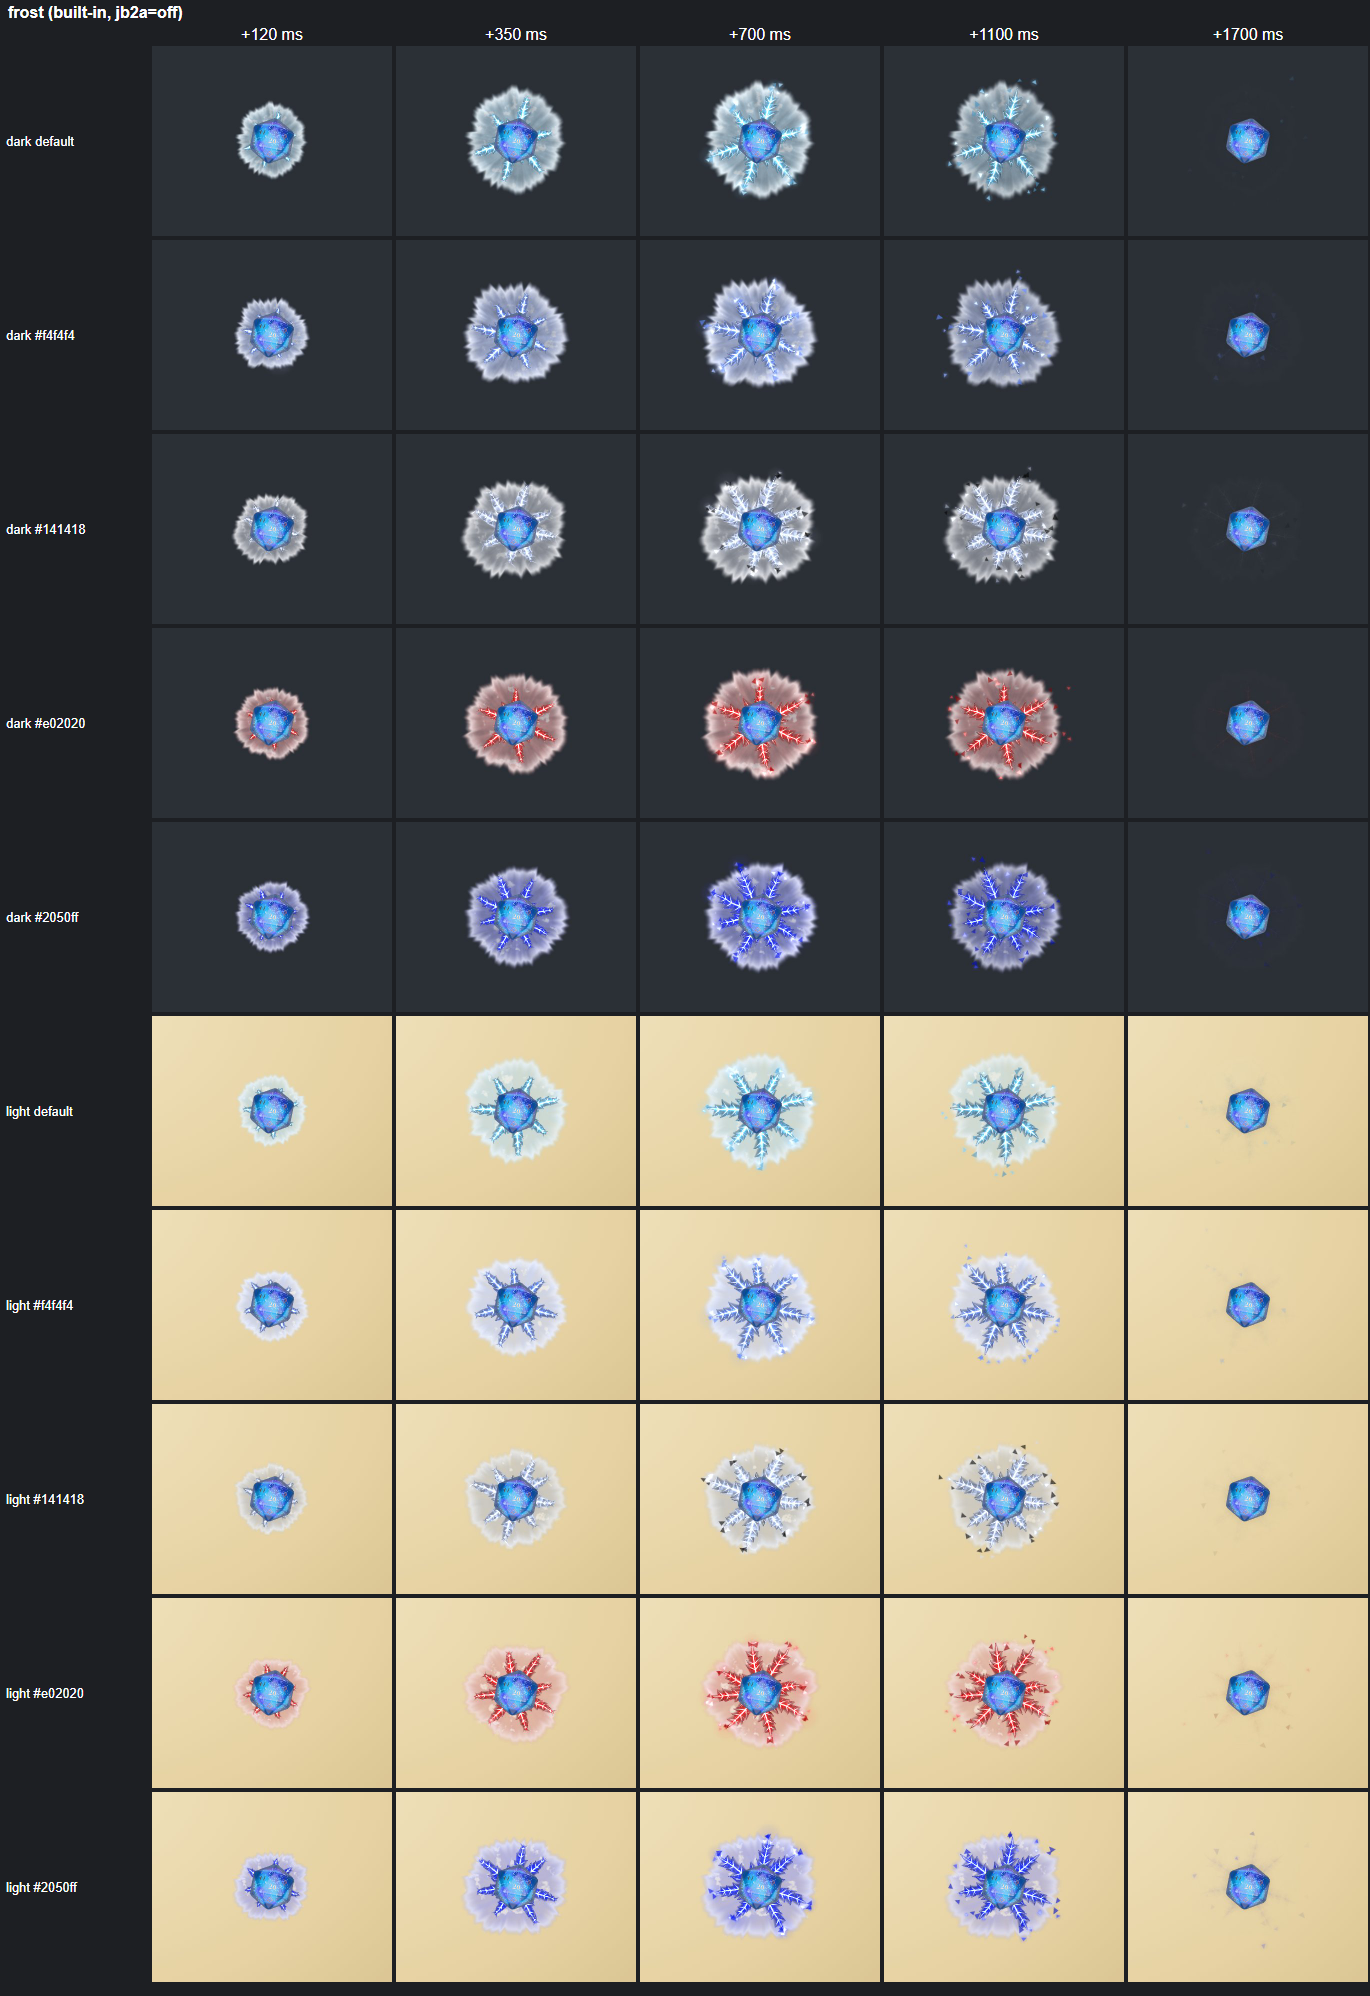
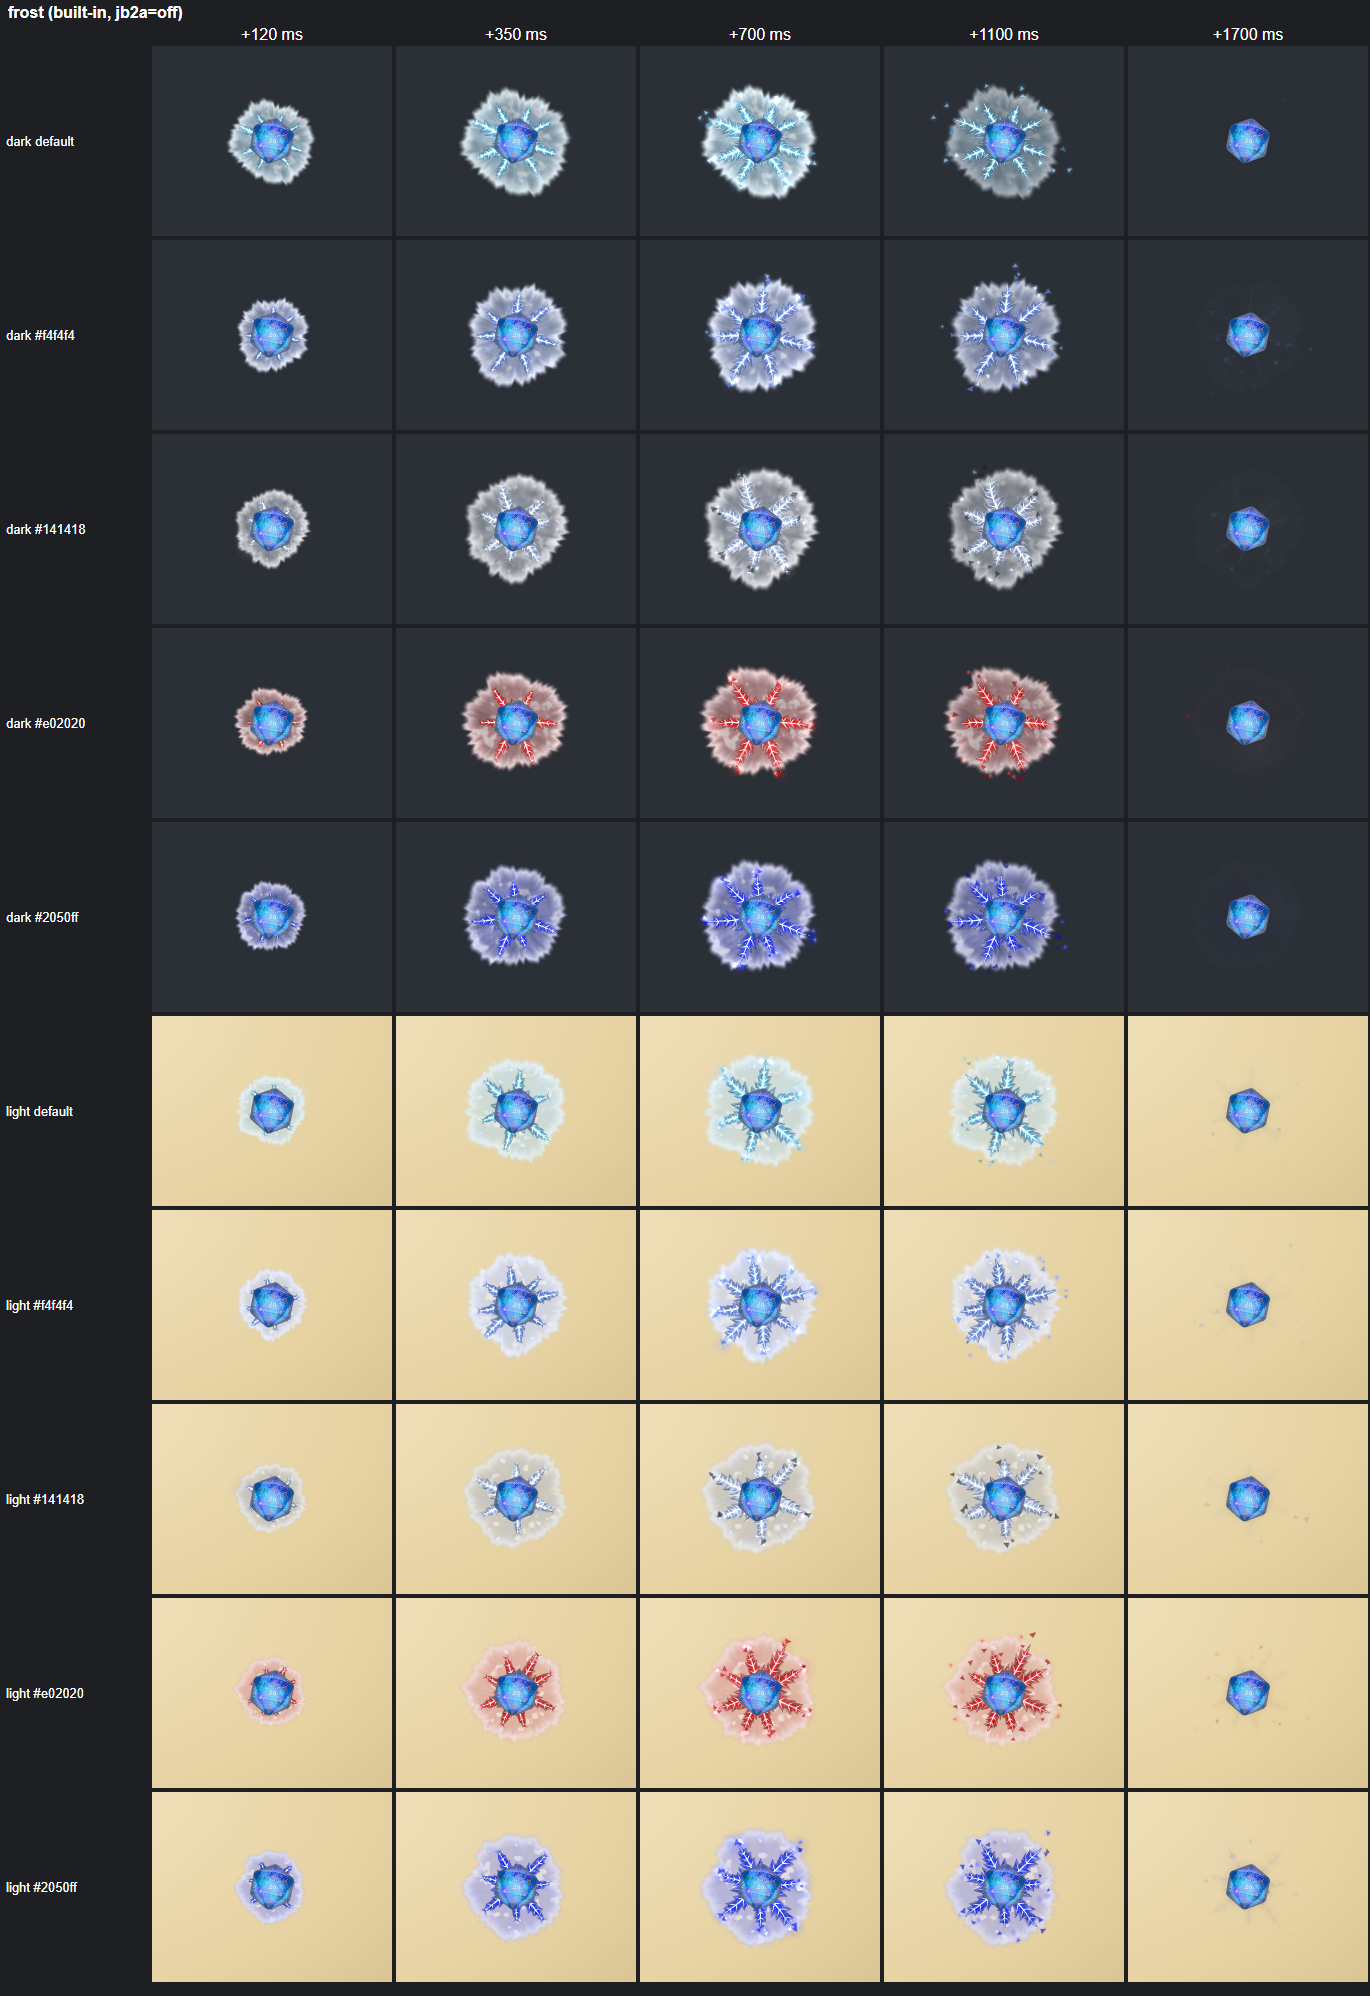
fix(fx): cut frost patch and ribbon cost, real colour test
Patch: corners and pixels past the outline are discarded before most
noise; 2-octave fbm, sin-free hash (13 -> 0/3/7 noise calls per pixel).
Ribbons rebuild only on visible growth steps, never once grown. The
intensity-2 test now compares against intensity 1 and fails without the
clamp. Near-black shards tint toward the rim.

diff --git a/src/effects/library/catalogue.js b/src/effects/library/catalogue.js
@@ -480,13 +480,20 @@ function alongLine(line, f) {
  * The frost patch on the table: a pale, matte disc of value-noise rime with a ragged outline and
  * a few brighter flecks, drawn "over" (premultiplied normal blend) rather than added, so it reads
  * as a white frost on a light map as well as on a dark table. uAlpha is its opacity.
+ * Cost: the quad's corners (r > 1) are discarded at once; a pixel past the ragged outline after
+ * the 3 outline noise calls; one inside takes 4 more (7 value-noise calls, sin-free hashes).
  */
 const FROST_PATCH_FRAGMENT = /* glsl */ `
 uniform vec3 uColor;
 uniform float uAlpha;
 uniform float uSeed;
 varying vec2 vUv;
-float hash( vec2 p ) { return fract( sin( dot( p, vec2( 127.1, 311.7 ) ) ) * 43758.5453 ); }
+// A sin-free hash (Hoskins): cheap, and stable at large inputs on mediump GPUs.
+float hash( vec2 p ) {
+	vec3 p3 = fract( vec3( p.xyx ) * 0.1031 );
+	p3 += dot( p3, p3.yzx + 33.33 );
+	return fract( ( p3.x + p3.y ) * p3.z );
+}
 float noise( vec2 p ) {
 	vec2 i = floor( p );
 	vec2 f = fract( p );
@@ -494,28 +501,23 @@ float noise( vec2 p ) {
 	return mix( mix( hash( i ), hash( i + vec2( 1.0, 0.0 ) ), f.x ),
 		mix( hash( i + vec2( 0.0, 1.0 ) ), hash( i + vec2( 1.0, 1.0 ) ), f.x ), f.y );
 }
-// Four octaves, each turned ~37 degrees, so no lattice shows.
-float fbm( vec2 p ) {
-	const mat2 turn = mat2( 0.8, 0.6, -0.6, 0.8 );
-	float s = 0.0;
-	float w = 0.5;
-	for ( int i = 0; i < 4; i++ ) {
-		s += w * noise( p );
-		p = turn * p * 2.03 + 17.0;
-		w *= 0.5;
-	}
-	return s / 0.9375;
+// Two octaves, the second turned ~37 degrees so no lattice shows.
+float fbm2( vec2 p ) {
+	return ( 2.0 * noise( p ) + noise( mat2( 0.8, 0.6, -0.6, 0.8 ) * p * 2.03 + 17.0 ) ) / 3.0;
 }
 void main() {
+	if ( uAlpha <= 0.0 ) discard;
 	vec2 p = vUv * 2.0 - 1.0;
 	float r = length( p );
+	if ( r >= 1.0 ) discard; // the quad's corners: the outline never reaches past r = 1
 	vec2 dir = p / max( r, 0.0001 );
-	// A ragged outline: fbm around the circle plus a finer fringe.
-	float outline = 0.66 + 0.24 * fbm( dir * 2.2 + uSeed ) + 0.1 * noise( dir * 14.0 + uSeed );
+	// A ragged outline: two lobed octaves around the circle plus a finer fringe.
+	float outline = 0.66 + 0.24 * fbm2( dir * 2.2 + uSeed ) + 0.1 * noise( dir * 14.0 + uSeed );
+	if ( r >= outline ) discard;
 	float inside = 1.0 - smoothstep( outline - 0.12, outline, r );
 	// Frost feathers: fibres that run outward (noise mostly of the angle), over a fine rime grain.
-	float fibre = fbm( dir * 7.0 + vec2( r * 1.6, -r * 1.1 ) + uSeed );
-	float grain = fbm( p * 9.0 - uSeed );
+	float fibre = fbm2( dir * 7.0 + vec2( r * 1.6, -r * 1.1 ) + uSeed );
+	float grain = fbm2( p * 9.0 - uSeed );
 	float n = 0.55 * fibre + 0.45 * grain;
 	float rim = smoothstep( outline - 0.3, outline - 0.06, r ) * inside; // the denser growing edge
 	float fleck = smoothstep( 0.62, 0.78, grain );
@@ -592,6 +594,7 @@ function frostCrystal(cx, cz, reach) {
 const rayTaper = (t) => 1 - 0.9 * t ** 1.4;
 const spikeTaper = (t) => 1 - 0.92 * t;
 const easeOutCubic = (t) => 1 - (1 - t) ** 3;
+const GROW_STEP = 0.008; // the smallest growth step worth a ribbon rebuild (under a pixel per step)
 
 export const frost = Object.freeze({
   id: 'frost',
@@ -639,6 +642,8 @@ export const frost = Object.freeze({
     // The edge tint, lifted halfway to the die colour (an edge alone is a dull grey) then paled.
     const discBase = pal.rim ?? (nearWhite ? pal.edge : pal.edge.clone().lerp(pal.mid, 0.6));
     const discColor = discBase.clone().lerp(white, 0.5);
+    // (A plane: its corners, past r = 1, are discarded before any noise. THREE.CircleGeometry would
+    // split into a shared chunk and grow the world-start download.)
     const disc = new THREE.Mesh(new THREE.PlaneGeometry(1, 1), frostPatchMaterial(discColor));
     disc.rotation.x = -Math.PI / 2;
     disc.position.set(ctx.position.x, FLOOR_Y, ctx.position.z);
@@ -658,9 +663,12 @@ export const frost = Object.freeze({
     };
 
     const cold = glowColor.clone().lerp(white, 0.55);
-    const shardBody = pal.rim ? pal.mid : nearWhite ? pal.edge : pal.mid;
+    // A near-black die's crystals are dark ice tinted toward its rim, not black triangles.
+    const shardBody = pal.rim ? pal.mid.clone().lerp(pal.rim, 0.45) : nearWhite ? pal.edge : pal.mid;
+    const shardEnd = pal.rim ? pal.mid.clone().lerp(pal.rim, 0.25) : pal.edge;
     const mistColor = glowColor.clone().lerp(white, pal.rim ? 0.45 : 0.7);
     let popped = false;
+    let drawn = -1; // the growth the ribbons were last built at
     const pop = (e, now) => {
       popped = true;
       const pool = ctx.particles;
@@ -679,7 +687,7 @@ export const frost = Object.freeze({
           gravity: -4,
           life,
           color: shardBody,
-          colorEnd: pal.edge,
+          colorEnd: shardEnd,
           size: 0.3 * k,
           spin: 2,
           kind: KIND.SHARD,
@@ -744,14 +752,19 @@ export const frost = Object.freeze({
       (e, now) => {
         mist(e, now);
         const g = growAt(e);
-        ray.mesh.userData.grow = g;
-        const rayLines = rays.map((pts) => prefixOf(pts, g));
-        const spikeLines = spikes.map((s) => prefixOf(s.pts, (g - s.at) / (1 - s.at)));
-        ray.setPolylines(rayLines);
-        spike.setPolylines(spikeLines);
-        const all = rayLines.concat(spikeLines);
-        halo.setPolylines(all);
-        shadow.setPolylines(all);
+        // Rebuild (and re-upload) the four ribbons only when the growth has visibly moved: at most
+        // ~1/GROW_STEP times per play whatever the frame rate, and never once the crystal is grown.
+        if (g - drawn >= GROW_STEP || (g === 1 && drawn < 1)) {
+          drawn = g;
+          ray.mesh.userData.grow = g;
+          const rayLines = rays.map((pts) => prefixOf(pts, g));
+          const spikeLines = spikes.map((s) => prefixOf(s.pts, (g - s.at) / (1 - s.at)));
+          ray.setPolylines(rayLines);
+          spike.setPolylines(spikeLines);
+          const all = rayLines.concat(spikeLines);
+          halo.setPolylines(all);
+          shadow.setPolylines(all);
+        }
         if (!popped && g >= 0.9) pop(e, now);
         const a = bright * levelAt(e);
         ray.alpha = Math.min(ALPHA_CAP, 1.15 * a);

diff --git a/tests/unit/catalogue.test.js b/tests/unit/catalogue.test.js
@@ -487,20 +487,41 @@ describe('frost', () => {
     pool.dispose();
   });
 
-  test('frost brightness is capped: at intensity 2 no additive layer alpha exceeds 1.5', () => {
-    for (const color of ['#a8e4ff', '#f4f4f4', '#141418', '#e02020']) {
-      const { scene, pool, h } = play({ intensity: 2, color: new THREE.Color(color) });
-      const layers = scene.children.filter((c) => c.material?.uniforms?.uAlpha);
-      expect(layers.length, color).toBeGreaterThan(1);
-      let max = 0;
-      for (let t = 0; t < 1000; t += 10) {
-        h.update(t);
-        for (const l of layers) max = Math.max(max, l.material.uniforms.uAlpha.value);
-      }
-      expect(max, color).toBeLessThanOrEqual(1.5);
-      expect(max, color).toBeGreaterThan(0.3);
-      h.stop();
-      pool.dispose();
+  /** Per drawn layer (scene order): peak uAlpha, colour, width; plus the additive particle colours. */
+  const layersAt = (intensity, color) => {
+    const { scene, pool, emit, h } = play({ intensity, color: new THREE.Color(color) });
+    const layers = scene.children.filter((c) => c.material?.uniforms?.uAlpha);
+    const peak = layers.map(() => 0);
+    for (let t = 0; t < 1000; t += 10) {
+      h.update(t);
+      layers.forEach((l, i) => (peak[i] = Math.max(peak[i], l.material.uniforms.uAlpha.value)));
+    }
+    const out = {
+      peak,
+      hsl: layers.map((l) => l.material.uniforms.uColor.value.getHSL({})),
+      width: layers.map((l) => l.material.uniforms.uWidthPx?.value ?? 0),
+      glow: emit.mock.calls.map(([s]) => s).filter((s) => s.blend !== 'normal').map((s) => new THREE.Color(s.color).getHex()),
+    };
+    h.stop();
+    pool.dispose();
+    return out;
+  };
+
+  test('frost at intensity 2 keeps the die colour: no layer brighter than at intensity 1, same hues, alpha <= 1.5', () => {
+    for (const color of ['#e02020', '#2050ff', '#f4f4f4', '#141418']) {
+      const one = layersAt(1, color);
+      const two = layersAt(2, color);
+      expect(two.peak.length, color).toBe(one.peak.length);
+      expect(Math.max(...one.peak), color).toBeGreaterThan(0.3);
+      two.peak.forEach((p, i) => {
+        // Brighter than intensity 1 would push the additive layers toward white: it may only grow.
+        expect(p, `${color} layer ${i}`).toBeLessThanOrEqual(one.peak[i] * 1.001);
+        expect(p, `${color} layer ${i}`).toBeLessThanOrEqual(1.5);
+        expect(two.hsl[i].h, `${color} layer ${i} hue`).toBeCloseTo(one.hsl[i].h, 5);
+        expect(two.hsl[i].s, `${color} layer ${i} saturation`).toBeCloseTo(one.hsl[i].s, 5);
+        expect(two.width[i], `${color} layer ${i} width`).toBeGreaterThanOrEqual(one.width[i]);
+      });
+      expect(new Set(two.glow), color).toEqual(new Set(one.glow)); // no whiter additive particles
     }
   });
 });
